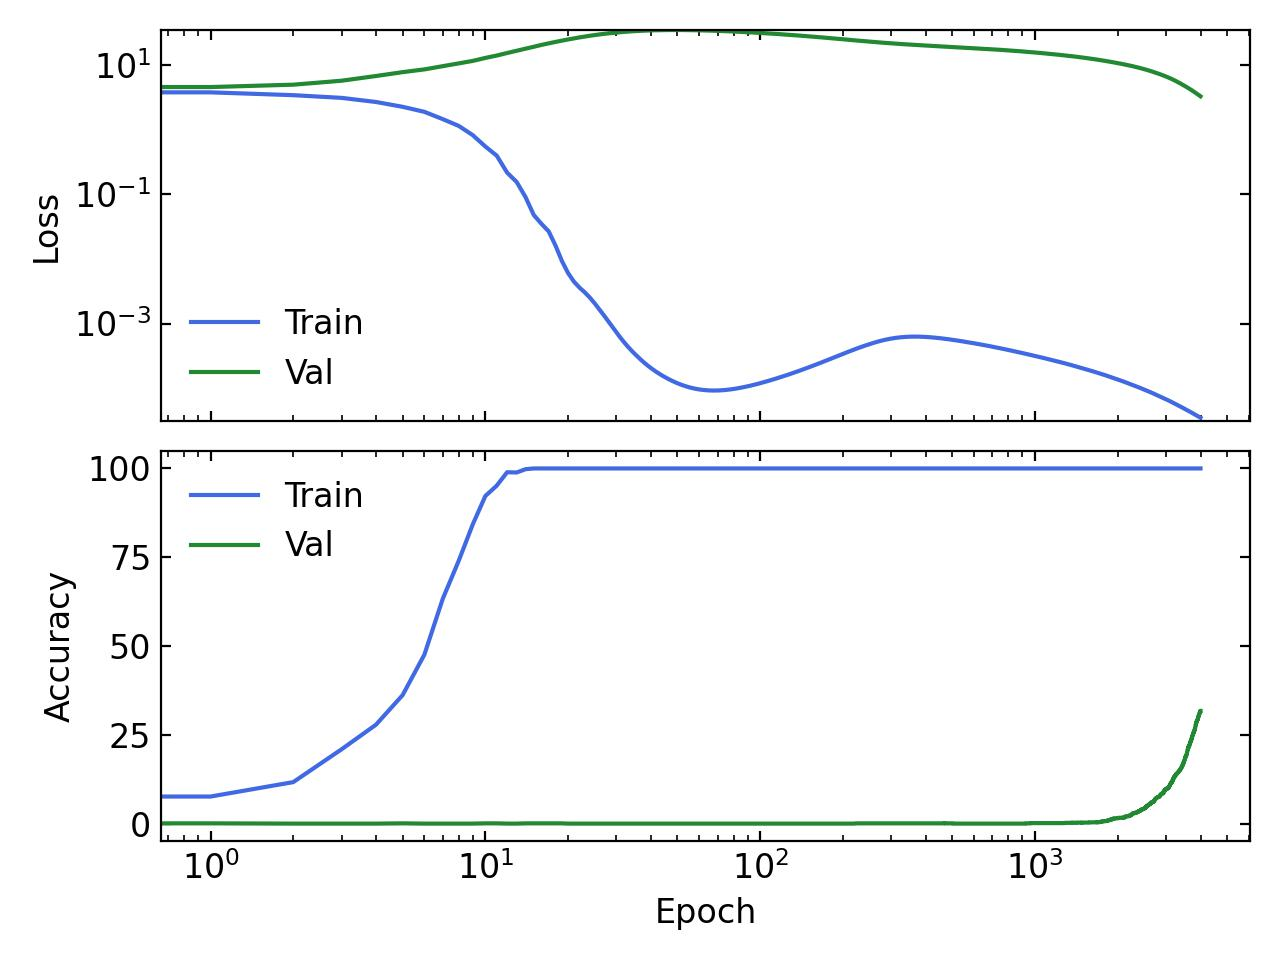
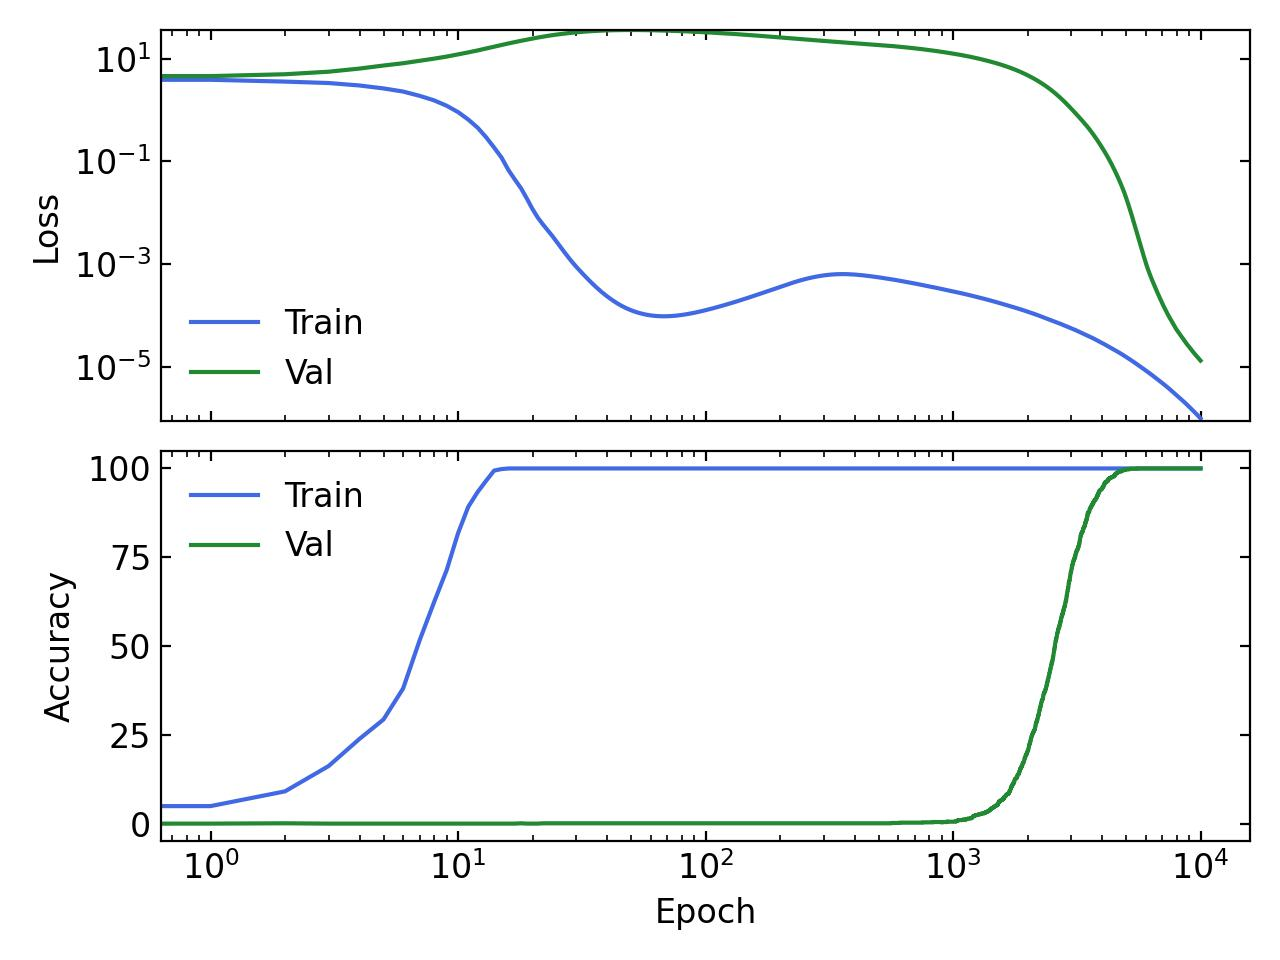
changed run hps

diff --git a/train.py b/train.py
@@ -12,11 +12,11 @@ logger = Logger("grokking" if grok else "comprehension") if log else None
 # Hyperparameters
 num_epochs = 10000
 learning_rate = 3e-2
-weight_decay = 3e-2 if grok else 3
+weight_decay = 3e-2 if grok else 5
 
 # Data - sum of two numbers mod 53
 P = 53
-train_frac = 0.5
+train_frac = 0.6
 X = torch.cartesian_prod(torch.arange(P), torch.arange(P))
 y = (X[:, 0] + X[:, 1]) % P
 shuffle = torch.randperm(len(X))

diff --git a/README.md b/README.md
@@ -1,7 +1,7 @@
 Minimal setup to observe the grokking phenomenon on an algorithmic task. 
 ## Description
 This is a minimal setup to observe the grokking phenomenon on an algorithmic task.
-The task is modular addition. The model is a simple 2-layer MLP which takes in two learnable embeddings of dimension `hidden_dim=128` concatenated together. Eeach embedding representes an integer and the target is their sum modulo 53.
+The task is modular addition. The model is a simple 2-layer MLP that takes in two learnable embeddings of dimension `hidden_dim=128` concatenated together. Each embedding representes an integer and the target is their sum modulo 53.
 
 ## Run
 Run `python train.py --grok` to see these training curves:
@@ -10,3 +10,5 @@ Run `python train.py --grok` to see these training curves:
 
 and `python train.py` for a normal run:
 ![normal](./metrics_comprehension.jpg)
+
+The only difference between these two runs is that weight decay is set to 5 (!) in the non-grokking (comprehension) run and 0.03 in the grokking run. For more details on the effect of hyperparameters on the grokking phenomenon, see [this paper: Towards understanding grokking](https://arxiv.org/abs/2205.10343).
